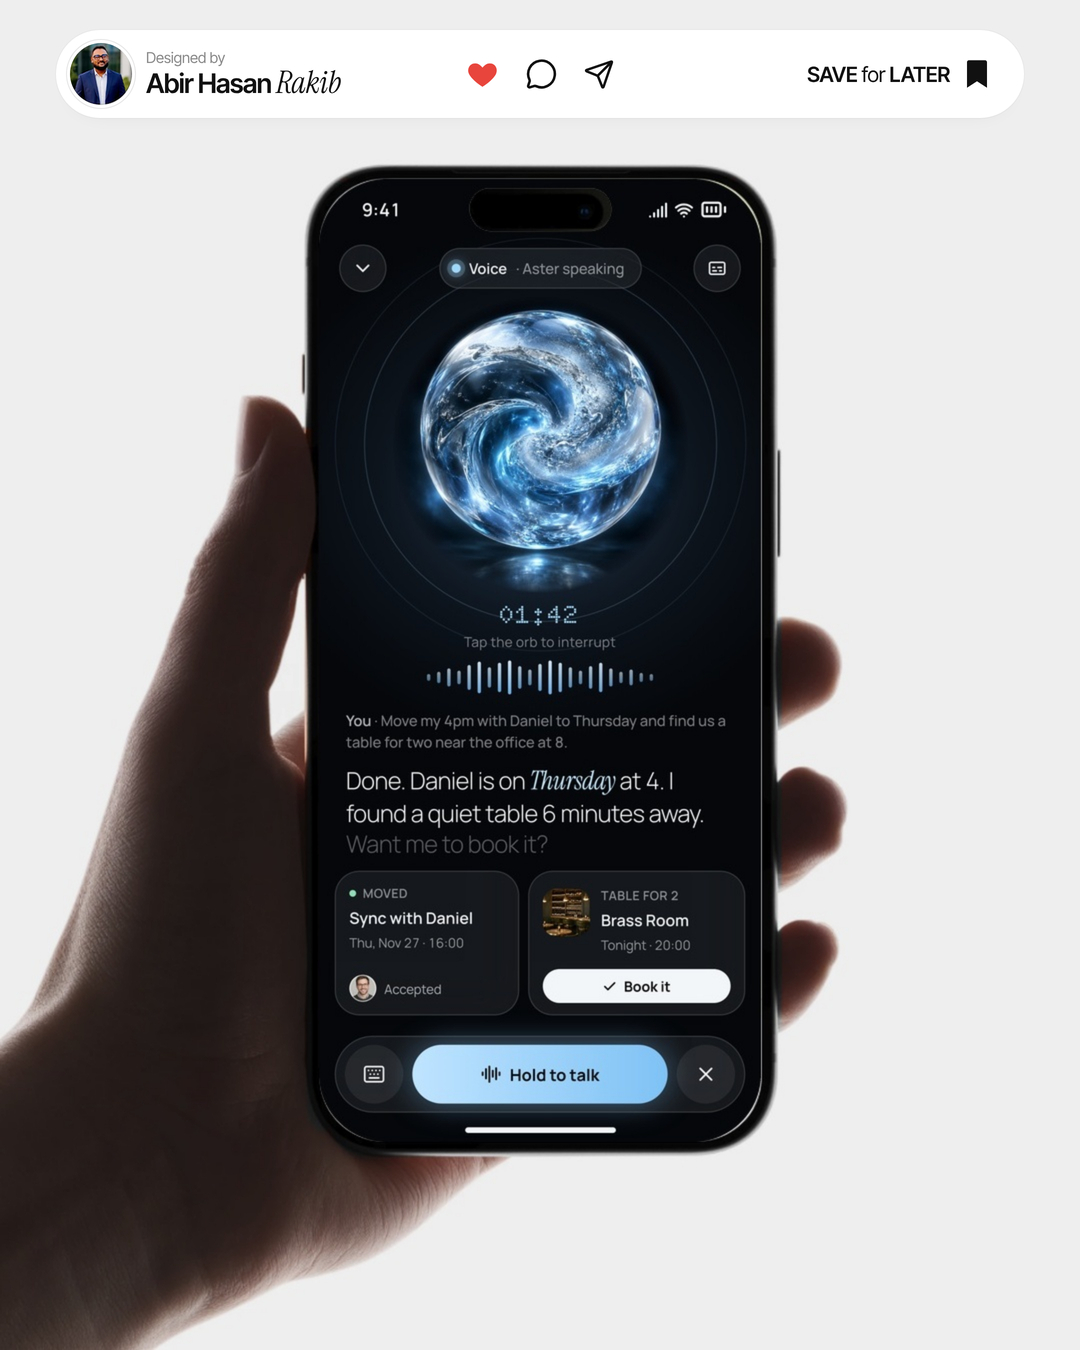
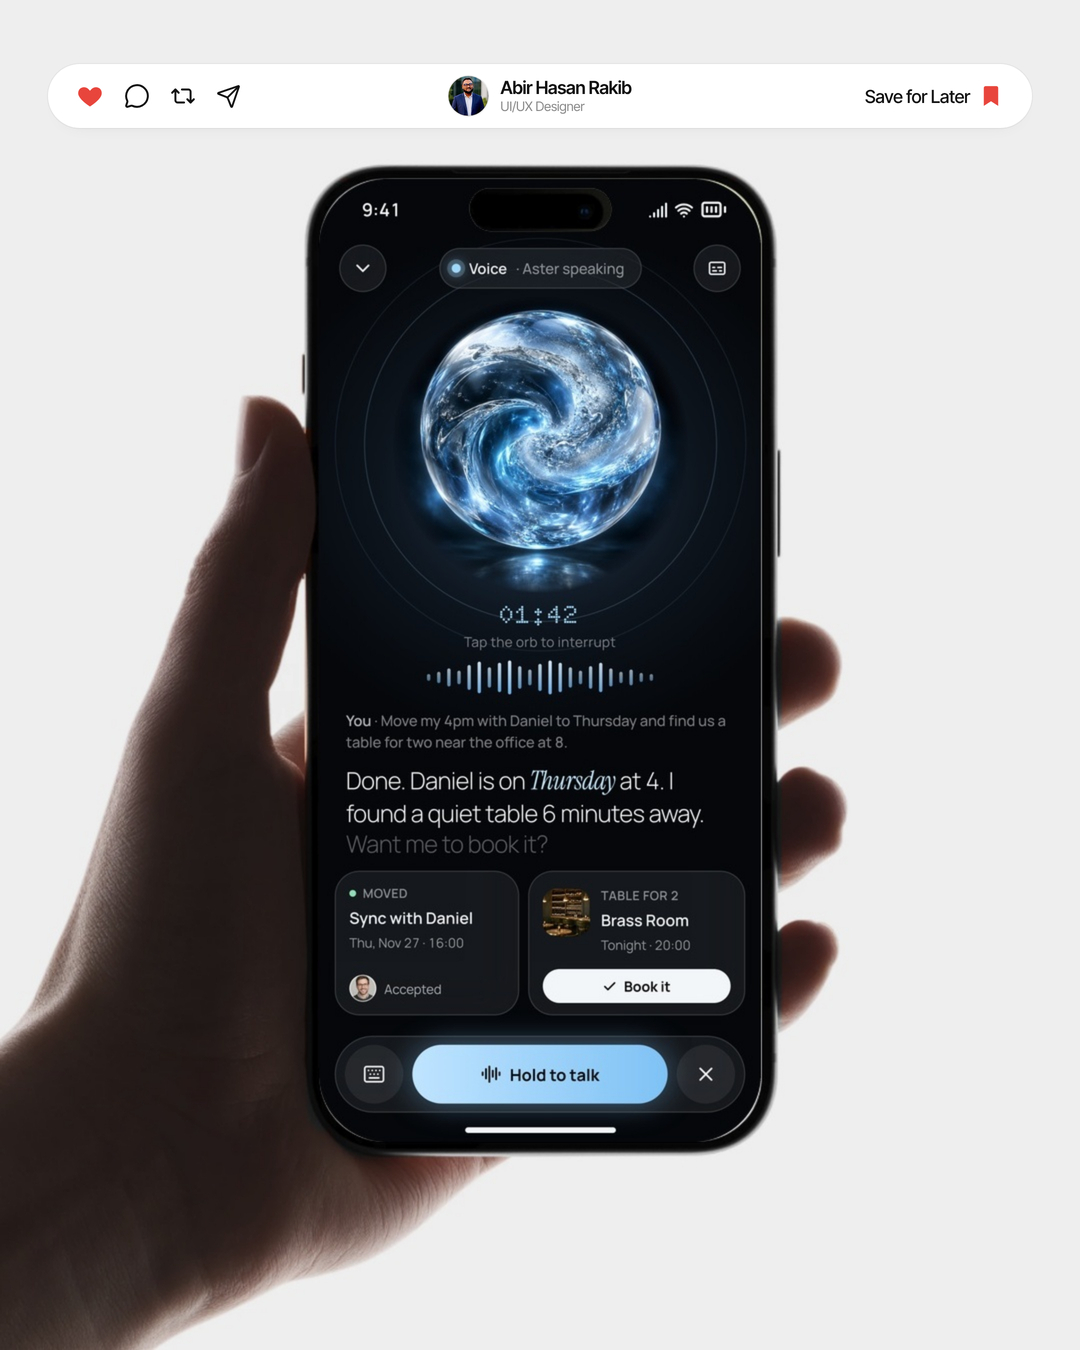
Slim organised top bar on slide 1; re-render ready slots 11-26 am to 11-29 am
Claude-Session: https://claude.ai/code/session_01Rx7czxJa9zjjAtZkQyHBah

Changed region(s): [[0.0611, 0.0311, 0.3056, 0.0933], [0.7333, 0.0311, 0.9472, 0.0933], [0.3972, 0.0311, 0.5806, 0.0933]]

diff --git a/tools/carousel.py b/tools/carousel.py
@@ -59,41 +59,38 @@ BRAND_BOT_NOWA = 56                      # bottom margin when there is no WhatsA
 
 BRAND_DARK_CSS = """
 .tb,.wa{background:#1C1D22;box-shadow:0 0 0 1px rgba(255,255,255,.08),0 12px 30px -18px rgba(0,0,0,.7)}
-.av{box-shadow:0 0 0 3px #1C1D22,0 0 0 4px #34353C}
 .who small,.wa small{color:#8E8F99}
 .who b,.sv,.wa b{color:#F3F3F5}
 .wa .sep{background:#34353C}
-.mid svg{stroke:#F3F3F5}
-.sv svg path{fill:#F3F3F5}
+.act svg{stroke:#F3F3F5}
 """
 
 
 def brand_html(bg_uri, wa=True):
+    # Slim top bar (owner, 2026-11-25, ref: thin pill with actions left, designer centre, Save for Later right).
     av = R.b64(R.ROOT / 'assets/brand/abir.jpg')
-    heart = '<svg width="34" height="34" viewBox="0 0 24 24"><path d="M12 21s-7.5-4.6-9.6-9.2C.9 8.4 3 4.5 6.8 4.5c2.1 0 3.6 1.1 5.2 3 1.6-1.9 3.1-3 5.2-3 3.8 0 5.9 3.9 4.4 7.3C19.5 16.4 12 21 12 21z" fill="#E8453C"/></svg>'
-    bm = '<svg width="26" height="30" viewBox="0 0 20 24"><path d="M2 2.5C2 1.7 2.7 1 3.5 1h13c.8 0 1.5.7 1.5 1.5V23l-8-5.2L2 23z" fill="#111"/></svg>'
+    heart = '<svg width="28" height="28" viewBox="0 0 24 24"><path d="M12 21s-7.5-4.6-9.6-9.2C.9 8.4 3 4.5 6.8 4.5c2.1 0 3.6 1.1 5.2 3 1.6-1.9 3.1-3 5.2-3 3.8 0 5.9 3.9 4.4 7.3C19.5 16.4 12 21 12 21z" fill="#E8453C"/></svg>'
+    bm = '<svg width="18" height="22" viewBox="0 0 20 24"><path d="M2 3C2 1.9 2.9 1 4 1h12c1.1 0 2 .9 2 2v20l-8-5.2L2 23z" fill="#E8453C"/></svg>'
     WA = f"""<div class="wa"><i>{R.expand_icons('{{icon:phone:22:#fff:2.4}}')}</i><small>WhatsApp</small><span class="sep"></span><b>+880 1730 402 994</b></div>"""
     return f"""<!doctype html><html><head><meta charset=utf-8><link rel=stylesheet href="{(R.ROOT/'assets/fonts.css').as_uri()}"><style>{R.STAGE_CSS}
 .bg{{position:absolute;inset:0;background:url({bg_uri}) 0 0/1080px 1350px no-repeat}}
-.tb{{position:absolute;left:56px;right:56px;top:30px;height:88px;border-radius:44px;background:#fff;display:flex;align-items:center;padding:0 34px 0 14px;
- box-shadow:0 0 0 1px rgba(0,0,0,.025),0 10px 24px -20px rgba(20,20,30,.12)}}
-.who{{display:flex;align-items:center;gap:14px}}
-.av{{width:62px;height:62px;border-radius:50%;background:url({av}) center/cover;box-shadow:0 0 0 3px #fff,0 0 0 4px #E6E6E6}}
-.who small{{display:block;font-size:15px;color:#8A8A8A;font-family:'Inter Tight';letter-spacing:-.1px}}
-.who b{{display:block;font-size:27px;font-weight:600;color:#111;letter-spacing:-.8px;line-height:1.05;font-family:'Inter Tight'}}
-.who b i{{font-family:'Instrument Serif';font-weight:400;font-size:31px;letter-spacing:-.3px}}
-.mid{{position:absolute;left:50%;transform:translateX(-50%);display:flex;gap:26px;align-items:center}}
-.sv{{margin-left:auto;display:flex;align-items:center;gap:14px;font-family:'Inter Tight';font-size:21px;font-weight:600;color:#111;letter-spacing:-.3px}}
-.sv span b{{font-weight:600}} .sv span em{{font-style:normal;font-weight:400}}
+.tb{{position:absolute;left:48px;right:48px;top:64px;height:64px;border-radius:32px;background:#fff;display:flex;align-items:center;padding:0 32px 0 28px;
+ font-family:'Inter Tight';box-shadow:0 0 0 1px rgba(0,0,0,.04),0 8px 20px -16px rgba(20,20,30,.14)}}
+.act{{display:flex;gap:20px;align-items:center}}
+.who{{position:absolute;left:50%;transform:translateX(-50%);display:flex;align-items:center;gap:12px;white-space:nowrap}}
+.av{{width:40px;height:40px;border-radius:50%;background:url({av}) center/cover;box-shadow:0 0 0 1px rgba(0,0,0,.08)}}
+.who b{{display:block;font-size:18px;font-weight:600;color:#111;letter-spacing:-.4px;line-height:20px}}
+.who small{{display:block;font-size:13px;color:#8A8A8A;letter-spacing:-.1px;line-height:16px}}
+.sv{{margin-left:auto;display:flex;align-items:center;gap:12px;font-size:18px;font-weight:500;color:#111;letter-spacing:-.3px}}
 .wa{{position:absolute;left:50%;transform:translateX(-50%);bottom:40px;height:64px;border-radius:32px;background:#fff;display:flex;align-items:center;gap:14px;padding:0 28px 0 10px;
  font-family:'Inter Tight';box-shadow:0 0 0 1px rgba(0,0,0,.025),0 10px 24px -20px rgba(20,20,30,.12);white-space:nowrap}}
 .wa i{{width:46px;height:46px;border-radius:50%;background:#25D366;display:grid;place-items:center}}
 .wa small{{font-size:16px;color:#8A8A8A}} .wa b{{font-size:22px;font-weight:600;color:#111;letter-spacing:-.2px}}
 .wa .sep{{width:1px;height:26px;background:#E3E3E3}}
 {BRAND_DARK_CSS if R.DARK else ''}</style></head><body><div class="stage"><div class="bg"></div>
-<div class="tb"><div class="who"><span class="av"></span><div><small>Designed by</small><b>Abir Hasan <i>Rakib</i></b></div></div>
- <div class="mid">{heart}{R.expand_icons('{{icon:message-circle:32:#111:1.9}}{{icon:send:31:#111:1.9}}')}</div>
- <div class="sv"><span><b>SAVE</b> <em>for</em> <b>LATER</b></span>{bm}</div></div>
+<div class="tb"><div class="act">{heart}{R.expand_icons('{{icon:message-circle:26:#111:1.8}}{{icon:repeat-2:26:#111:1.8}}{{icon:send:25:#111:1.8}}')}</div>
+ <div class="who"><span class="av"></span><div><b>Abir Hasan Rakib</b><small>UI/UX Designer</small></div></div>
+ <div class="sv">Save for Later{bm}</div></div>
 {WA if wa else ''}
 </div></body></html>"""
 

diff --git a/PLAYBOOK.md b/PLAYBOOK.md
@@ -270,6 +270,9 @@ a top pill with his photo (`assets/brand/abir.jpg`), "Designed by / Abir Hasan *
 (dashboard halves pan from each edge, website columns/bands sit between the bars, app slides shift/scale down).
 Mockup shadows are deliberately faint (owner: the old shadow was too heavy): 1px hairline + a soft, low-opacity drop.
 Do not darken them again. If the owner sends a sharper profile photo, replace `assets/brand/abir.jpg`.
+**Slim top bar (owner, 2026-11-25 night, replaces the old "Designed by" bar look):** one thin white pill across the top of slide 1
+(64px tall, 48px side margins): heart (red) + comment + repost + send icons on the left, his photo + "Abir Hasan Rakib" / "UI/UX Designer"
+in the centre, "Save for Later" + red bookmark on the right. No verified badge. Carousels are otherwise unchanged. Built by `brand_html` in tools/carousel.py.
 
 
 ## Growth rules (owner's standing order: every post should aim to go viral)
